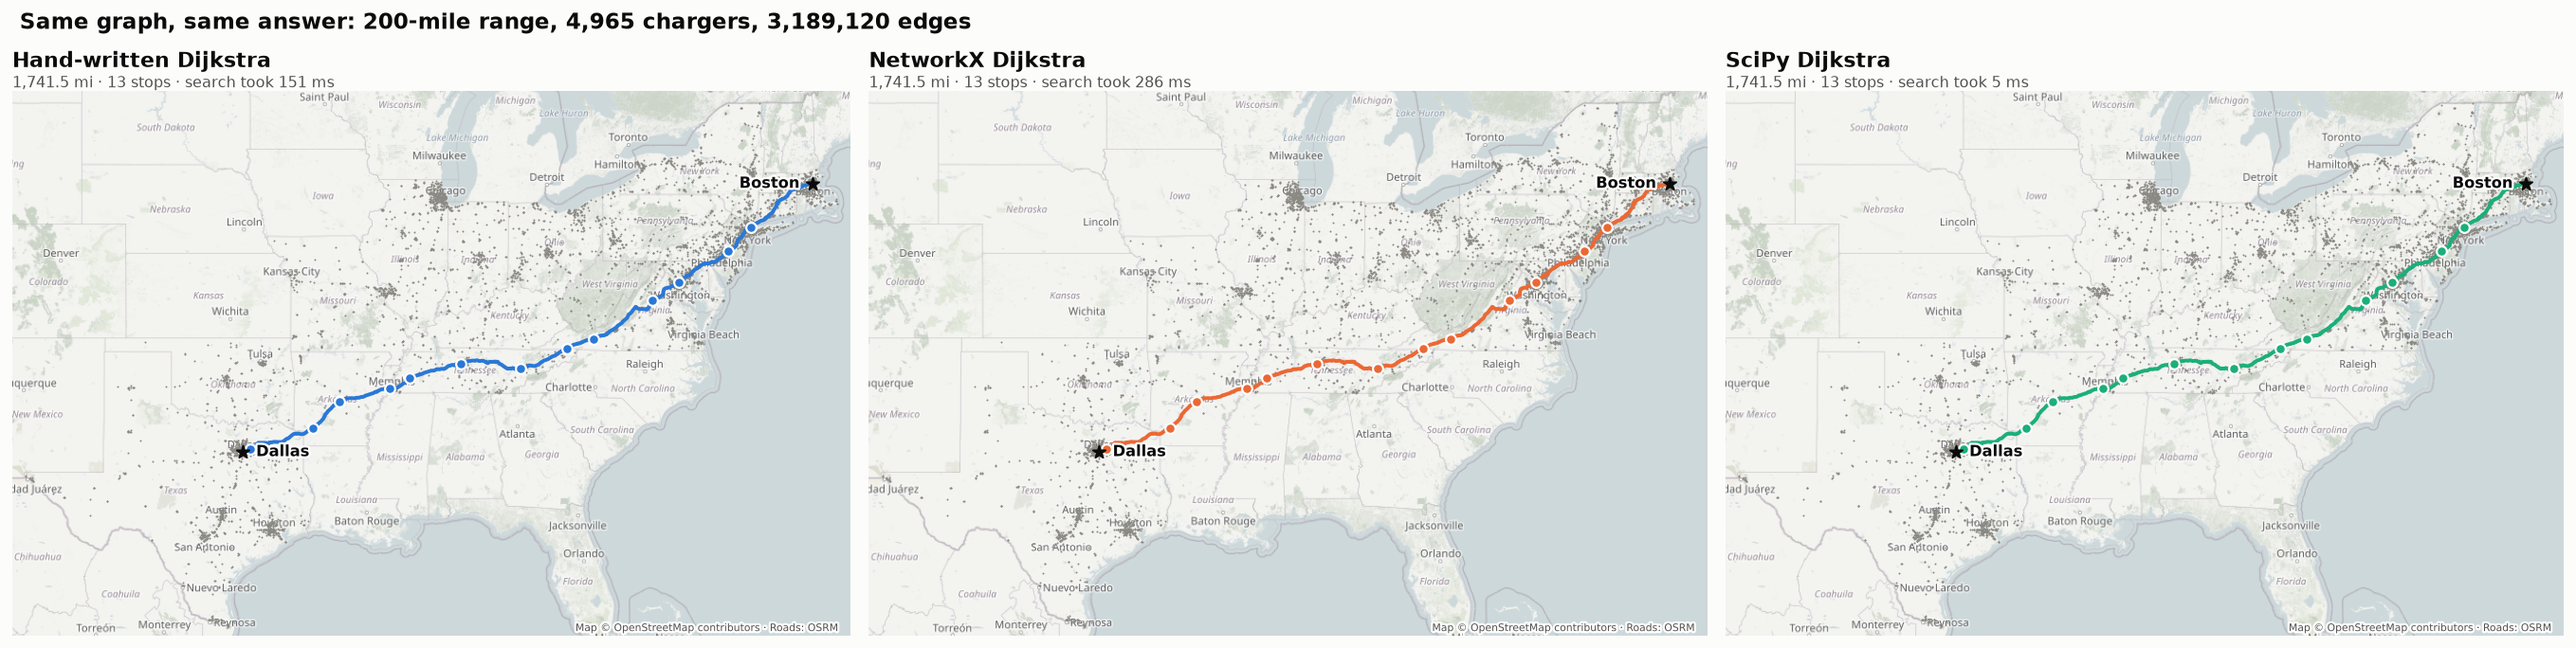
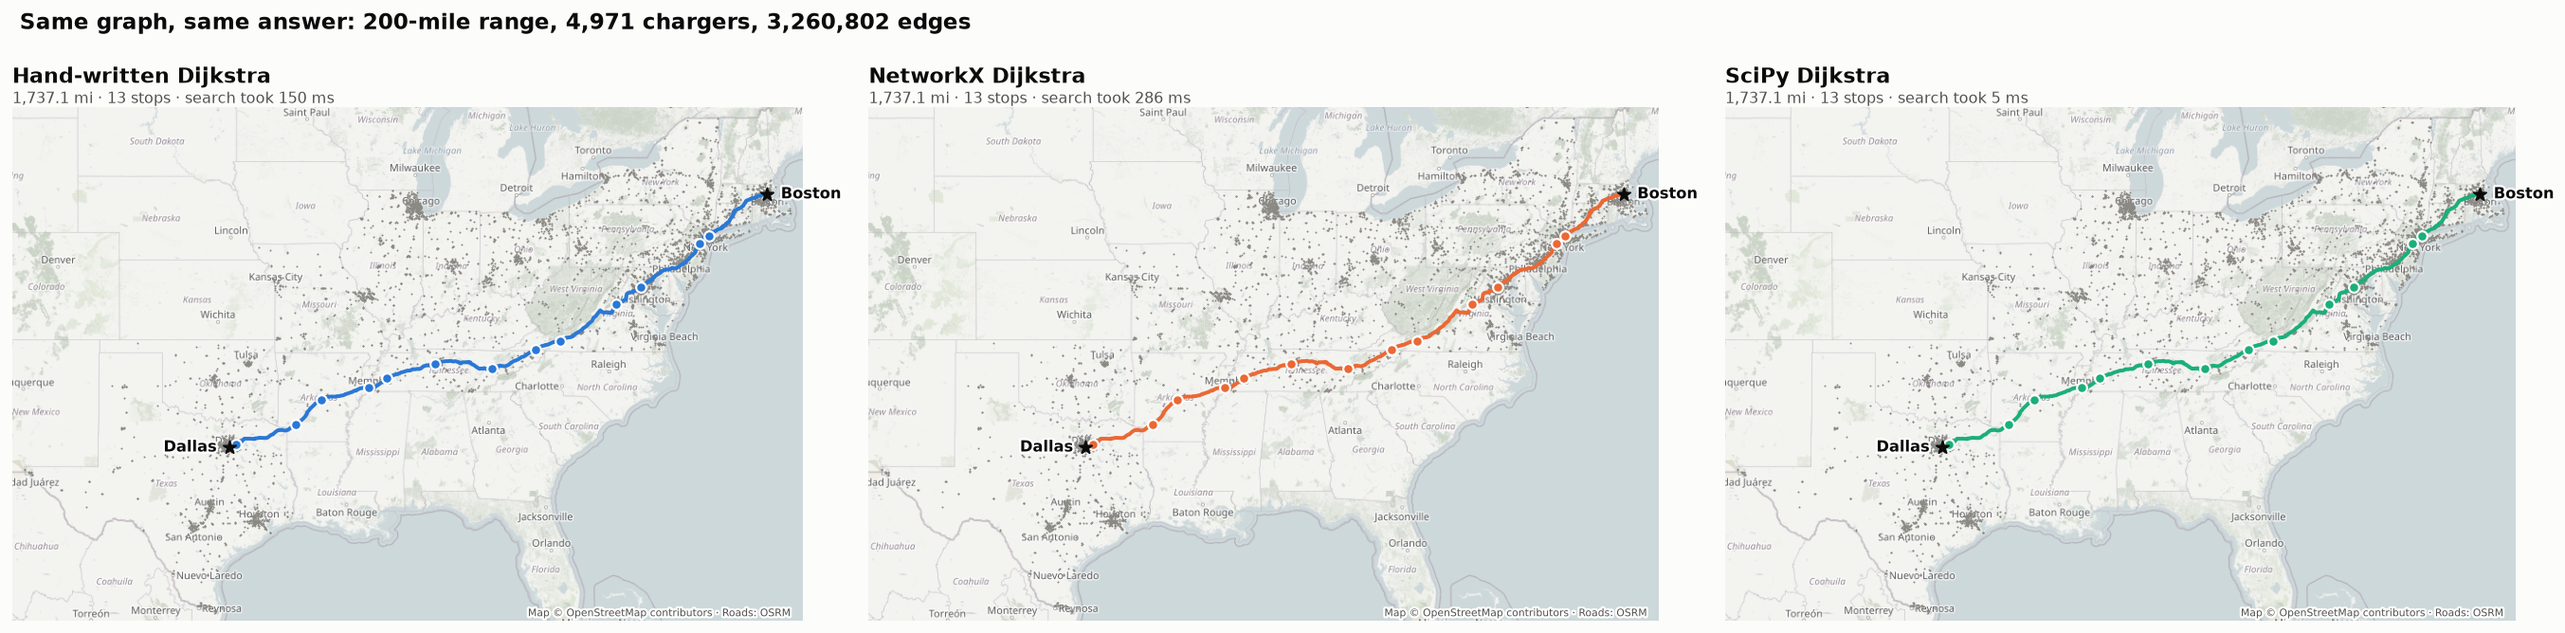
update of dijkstra readme

diff --git a/Dijkstra/README.md b/Dijkstra/README.md
@@ -15,10 +15,12 @@ root `.venv` and `data/` (see the root README: `charger_graph.py` builds `data/`
 ../.venv/bin/python main.py               # analysis + all figures
 ../.venv/bin/python main.py --show        # also play the search live in a window
 ../.venv/bin/python main.py --range 240   # another range (default 200, up to 240)
+../.venv/bin/python main.py --start "Buffalo, NY" --end "Springfield, MO"   # another trip
+../.venv/bin/python trip_table.py         # slide table: search time and work per trip
 ```
 
 Or run everything in one go: `./run_all.sh` (add `--quick` to skip `main.py`). It runs
-`runtime.py` and `main.py`, then opens the web demo and the figures.
+`runtime.py`, `main.py` and `compare_library.py`, then opens the web demo and the figures.
 
 **Web demo.** Open `dijkstra-demo.html` in any browser (no install, works offline). It replays
 Dijkstra one line of code at a time, highlighting the line next to the map, the waitlist and
@@ -30,20 +32,22 @@ or `npm run build:single` to rebuild `dijkstra-demo.html`.
 random graphs from 1k to 64k nodes, and saves `figures/runtime.png`.
 
 `main.py` prints Dijkstra's progress, the best route, and how the answer changes with range,
-then writes the figures to `figures/`. The first run loads the full network from `data/`
-(about 15 seconds) and caches it in `cache/network.pkl`; it also downloads the map tiles and
-the road shapes it draws. Later runs take about 15 seconds and work offline.
+then writes the figures to `figures/`. The first run of a trip builds its network from `data/`
+(about a minute) and caches it in `cache/` (`cache/network.pkl` for Boston → Dallas); it also
+downloads the map tiles and the road shapes it draws. Later runs take about 15 seconds and
+work offline. Figures for another trip get its name, e.g. `figures/route_buffalo_springfield.png`.
 
 | File | What it does |
 |---|---|
-| `network.py` | loads the real network: every DC fast charger between Boston and Dallas, and the road miles between them |
+| `network.py` | loads the real network for a trip: every DC fast charger in the 17 states, and the road miles between them |
 | `realmap.py` | fetches the map for the figures: OpenStreetMap tiles, and road shapes from OSRM |
 | `dijkstra.py` | Dijkstra's algorithm, path traceback, and the range-limited charging graph |
 | `hand.py` | our hand-written Dijkstra and A*, run on the same network |
 | `visualize.py` | every figure, including the animation of the search on the map |
 | `main.py` | runs the analysis and makes the figures |
 | `runtime.py` | minimal Dijkstra plus a runtime function, timed on growing graphs |
-| `compare_library.py` | our hand-written Dijkstra against NetworkX's and SciPy's on the real network |
+| `compare_library.py` | our hand-written Dijkstra against NetworkX's and SciPy's at every range |
+| `trip_table.py` | time, nodes expanded and edges checked for Boston → Dallas and Buffalo → Springfield |
 | `web/` | TypeScript + React step-by-step demo; built into `dijkstra-demo.html` |
 | `run_all.sh` | runs everything above and opens the demo |
 
@@ -52,20 +56,22 @@ the road shapes it draws. Later runs take about 15 seconds and work offline.
 - **Chargers.** Every public DC fast charger in the 17 states between Dallas and Boston,
   from the Department of Energy's station list (6,162 stations). Each is matched to its
   nearest road intersection; stations at the same intersection are merged, which leaves
-  **4,965 charger locations**.
+  **4,971 charger locations**.
 - **Distances.** Road miles between every two chargers at most 240 miles apart, measured on
-  OpenStreetMap roads (4,131,862 legs). Each leg includes the short detour from the road to
+  OpenStreetMap roads (4,218,013 legs). Each leg includes the short detour from the road to
   the charger at both ends. Roads can be one-way, so A → B and B → A can differ and the
-  graph is **directed**. Boston and Dallas are joined to every charger within 240 road miles.
+  graph is **directed**. The start and end of a trip are joined to every charger within 240
+  road miles.
 - **Map.** OpenStreetMap tiles, muted so the data stands out. The roads drawn on top are the
   real routes from the OSRM route service. Map data © OpenStreetMap contributors.
 
 ## Model
 
 **Range.** The range is the longest leg the car may drive on one charge. We only use 80% of
-a full battery as a safety margin, so a Model Y's 250 miles gives a **200-mile range**.
+a full battery as a safety margin, so a Model Y's 250 miles gives a **200-mile range**. The
+car is assumed to start with, and recharge to, those 200 miles at every stop.
 
-**Nodes** are Boston, Dallas, and the 4,965 chargers. There is an **edge A → B only if the
+**Nodes** are the start, the end, and the 4,971 chargers. There is an **edge A → B only if the
 leg from A to B is at most the range**. Its **weight is the leg's miles**. The battery limit
 lives in the structure of the graph, not in the algorithm. A leg can pass other chargers
 without stopping. The data has legs up to 240 miles, so ranges up to 240 can be tested.
@@ -75,16 +81,19 @@ closest to Boston. Its distance is now final. Then *relax* its edges: if going t
 gives a neighbor a shorter distance, update that neighbor and remember where it came from
 (`prev`). Stop when Dallas is settled, then follow `prev` back from Dallas to get the route.
 
+**Nodes expanded** is how many nodes Dijkstra settles before it reaches the end; **edges
+checked** is how many edges it looks at while relaxing them. Both measure the search's work.
+
 ## Result for a 200-mile range
 
-The charging graph has 4,967 nodes and 3,189,120 directed edges.
-Dijkstra settles 4,262 of them before Dallas. The best route:
+The charging graph has 4,973 nodes and 3,260,802 directed edges.
+Dijkstra settles 4,268 of them before Dallas. The best route:
 
 | Leg | Miles |
 |---|---|
-| Boston → Bronx, NY | 194.2 |
-| Bronx → Burlington, NJ | 85.9 |
-| Burlington → Bethesda, MD | 153.8 |
+| Boston → Bronx, NY | 194.0 |
+| Bronx → Avenel, NJ | 35.5 |
+| Avenel → Bethesda, MD | 200.0 |
 | Bethesda → Madison, VA | 86.9 |
 | Madison → Fort Chiswell, VA | 194.5 |
 | Fort Chiswell → Bristol, VA | 73.8 |
@@ -96,7 +105,7 @@ Dijkstra settles 4,262 of them before Dallas. The best route:
 | Little Rock → Hope, AR | 100.2 |
 | Hope → Rockwall, TX | 184.3 |
 | Rockwall → Dallas | 22.7 |
-| **Total (13 charging stops)** | **1,741.5** |
+| **Total (13 charging stops)** | **1,737.1** |
 
 ![Best route with a 200-mile range](figures/route.png)
 
@@ -107,7 +116,7 @@ I-40 across Tennessee and Arkansas, and I-30 into Texas.
 
 The animation at the top tells the story in three acts:
 
-1. **The real network.** All 4,965 chargers.
+1. **The real network.** All 4,971 chargers.
 2. **Dijkstra.** Each frame jumps ahead about 70 steps. Blue dots are settled (their distance
    is final), orange dots are waiting in the queue, gray dots are not reached yet, and the
    thin blue lines are the shortest-path tree (`prev`).
@@ -120,9 +129,9 @@ The same steps as still images, for a printed report:
 Dijkstra settles chargers in order of distance from Boston, so the search spreads out like a
 ripple in every direction: Chicago, Michigan and the whole Midwest are settled before Dallas,
 and they all end up off the final route. Dijkstra has no sense of direction, so it settles
-86% of the network before it reaches Dallas. A* aims toward Dallas and settles 3,399
-instead of 4,262 (`compare_algorithms.py` at the root). The saving is modest here because
-the dense Northeast around Boston has to be searched either way.
+86% of the network before it reaches Dallas. A* (`hand.py`) aims toward Dallas and settles
+3,457 instead of 4,268. The saving is modest here because the dense Northeast around Boston
+has to be searched either way.
 
 ## Varying the range
 
@@ -131,28 +140,28 @@ the dense Northeast around Boston has to be searched either way.
 | Range (mi) | Total miles | Stops |
 |---|---|---|
 | 40 | — | — (no route) |
-| 44 | 2,001.7 | 61 |
-| 80 | 1,753.1 | 29 |
-| 120 | 1,744.9 | 17 |
-| 160 | 1,741.8 | 13 |
-| 200 | 1,741.5 | 13 |
-| 240 | 1,741.0 | 8 |
+| 44 | 1,997.3 | 62 |
+| 80 | 1,748.7 | 28 |
+| 120 | 1,740.6 | 17 |
+| 160 | 1,737.5 | 13 |
+| 200 | 1,737.1 | 13 |
+| 240 | 1,736.6 | 8 |
 
 ![Routes at four ranges](figures/range_comparison.png)
 
 What the sweep shows:
 
-1. **With real chargers, even a tiny range works.** Chargers are so dense that a 44-mile
-   range already connects Boston to Dallas, with 61 stops. At 40 miles some gap cannot be
-   crossed. Finding that smallest workable range is a *bottleneck*
+1. **With real chargers, even a tiny range works.** Chargers are so dense that a 43-mile
+   range already connects Boston to Dallas; at 44 miles the route needs 62 stops. Below 43
+   miles some gap cannot be crossed. Finding that smallest workable range is a *bottleneck*
    (minimax) path problem, a cousin of the shortest-path problem.
 2. **Total distance never gets worse as range grows.** A larger range only *adds* edges, and
    adding edges can never make a shortest path longer.
 3. **Range mostly buys fewer stops, not fewer miles.** From a 120-mile range to 240 miles
    the trip gets only 4 miles shorter, but needs 9 fewer stops.
 4. **Stops do not always fall.** A 184-mile range gives 12 stops, while 188 miles gives 13
-   stops and 0.02 miles less. The objective is miles, so Dijkstra accepts an extra stop to
-   save 0.02 miles. `trip.py` at the root instead puts fewest stops first.
+   stops and 0.07 miles less. The objective is miles, so Dijkstra accepts an extra stop to
+   save 0.07 miles. `trip.py` at the root instead puts fewest stops first.
 
 ## Hand-written vs library Dijkstra
 
@@ -162,10 +171,10 @@ every range from 40 to 240 miles: ours (`dijkstra.py`), NetworkX's `single_sourc
 
 | Range | Edges | Miles | Stops | Hand-written | NetworkX | SciPy |
 |---|---|---|---|---|---|---|
-| 80 | 999,125 | 1,753.1 | 29 | 49 ms | 99 ms | 1.9 ms |
-| 160 | 2,340,161 | 1,741.8 | 13 | 112 ms | 214 ms | 3.7 ms |
-| 200 | 3,189,120 | 1,741.5 | 13 | 151 ms | 286 ms | 4.8 ms |
-| 240 | 4,133,424 | 1,741.0 | 8 | 189 ms | 368 ms | 5.8 ms |
+| 80 | 1,022,730 | 1,748.7 | 28 | 50 ms | 93 ms | 1.5 ms |
+| 160 | 2,385,776 | 1,737.4 | 13 | 113 ms | 212 ms | 3.7 ms |
+| 200 | 3,260,802 | 1,737.1 | 13 | 150 ms | 286 ms | 4.8 ms |
+| 240 | 4,219,580 | 1,736.6 | 8 | 193 ms | 366 ms | 5.7 ms |
 
 ![Each method's route at 200 miles](figures/library_routes.png)
 
@@ -180,6 +189,32 @@ every range from 40 to 240 miles: ours (`dijkstra.py`), NetworkX's `single_sourc
   The algorithm is the same; the constant factor is what differs.
 - All three grow roughly in line with the number of edges, as O((V + E) log V) predicts.
   Timings are the fastest of 3 runs on an Apple laptop.
+
+## Second trip: Buffalo → Springfield, MO
+
+The same network and the same 200-mile range, from Buffalo, NY to Springfield, MO:
+**931.7 miles with 5 charging stops**, at Rocky River, OH (mile 195), Findlay, OH (299),
+Plainfield, IN (491), Vandalia, IL (652) and Sullivan, MO (782).
+
+![Buffalo to Springfield with a 200-mile range](figures/route_buffalo_springfield.png)
+
+The trip is half as long as Boston → Dallas, but the search does almost as much work:
+Dijkstra settles everything closer to Buffalo than Springfield is, so it covers New England
+and Virginia, behind the start, before it reaches Missouri.
+
+![Dijkstra's search from Buffalo](figures/search_snapshots_buffalo_springfield.png)
+
+`trip_table.py` puts both trips side by side (200-mile range, median of 101 runs):
+
+| Trip | Dijkstra | Median time (ms) | Nodes expanded | Edges checked |
+|---|---|---|---|---|
+| Boston → Dallas | Hand-written | 149.68 | 4,268 | 3,001,774 |
+| Boston → Dallas | NetworkX | 290.14 | 4,268 | 3,001,774 |
+| Boston → Dallas | SciPy | 4.18 | 4,973 | 3,260,802 |
+| Buffalo → Springfield | Hand-written | 140.49 | 3,868 | 2,893,605 |
+
+Ours and NetworkX do exactly the same work; ours is faster per edge. SciPy does not stop at
+the end, so it settles every node and checks every edge, and is still the fastest.
 
 ## Limitations
 
